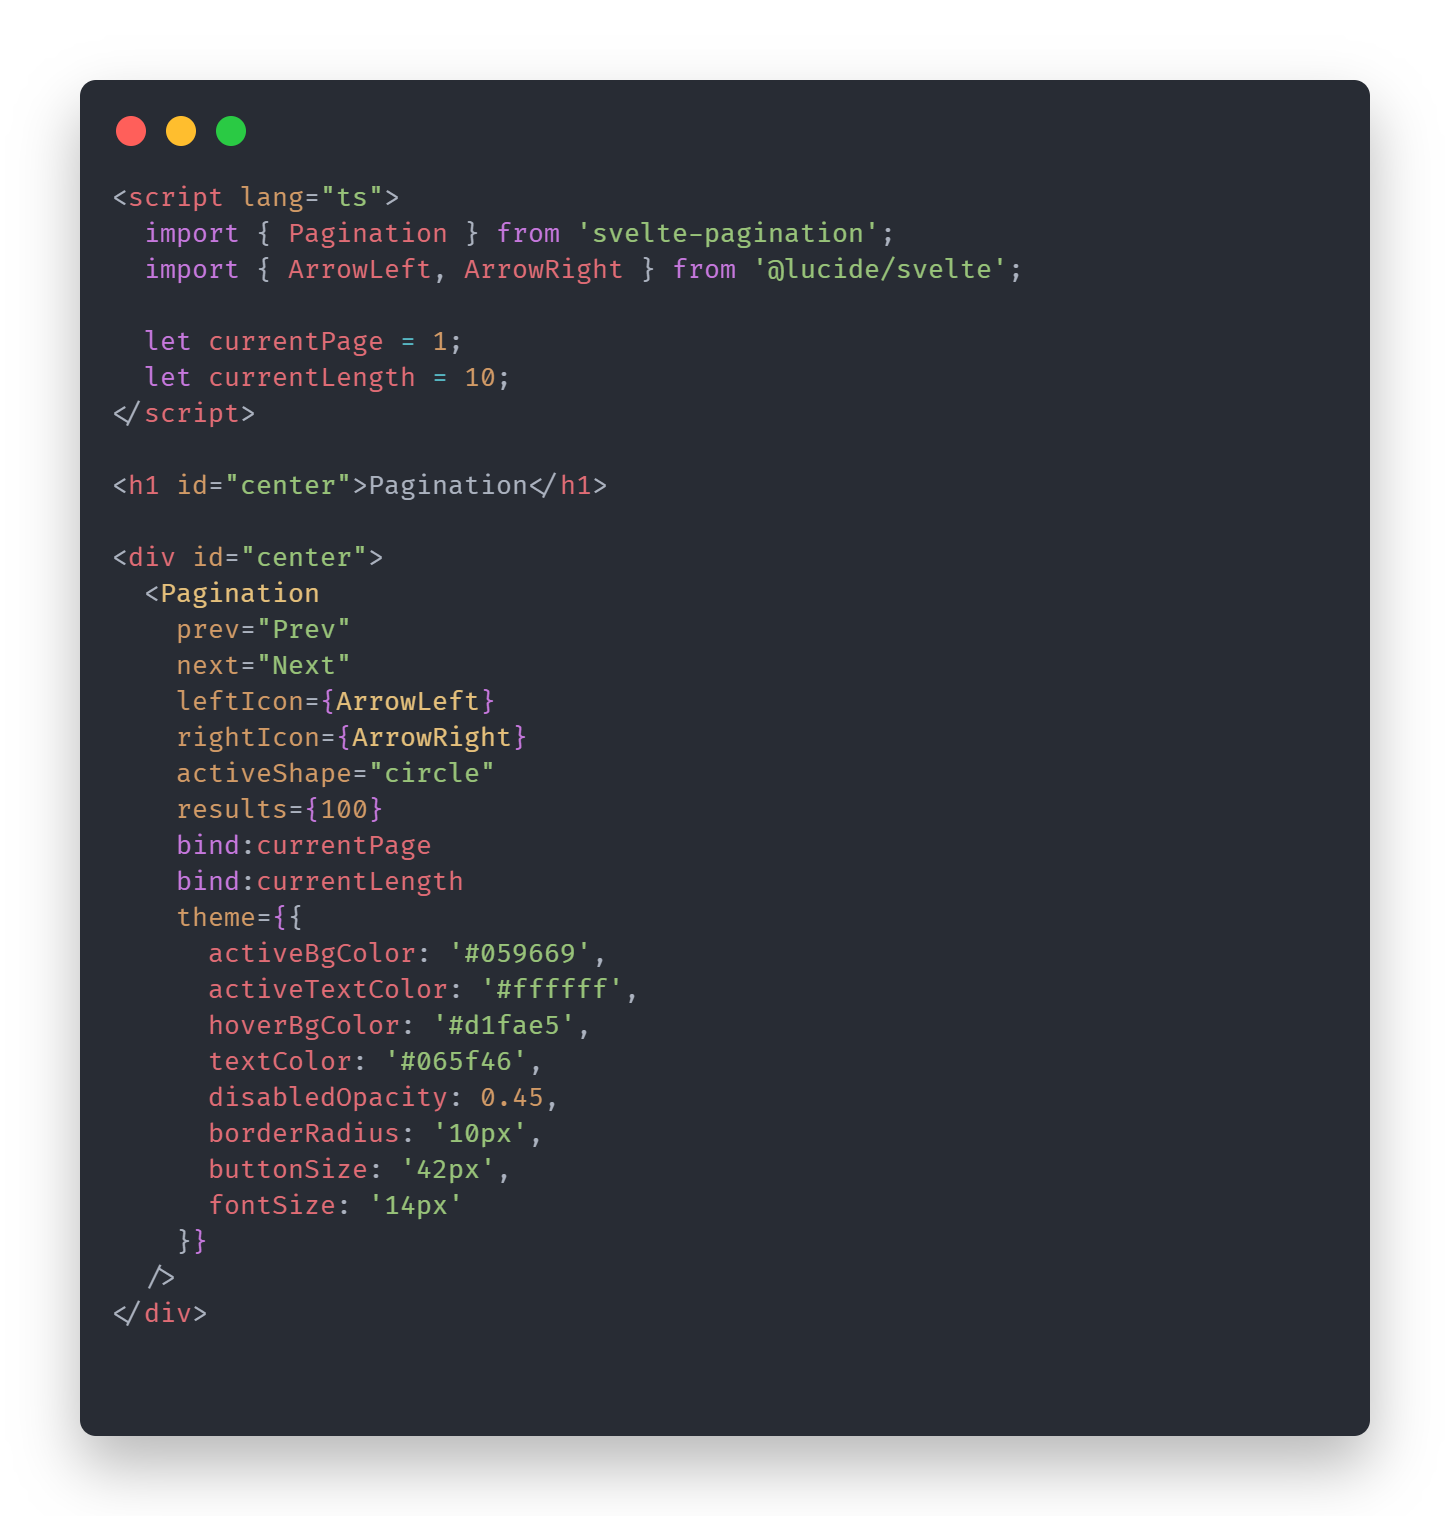
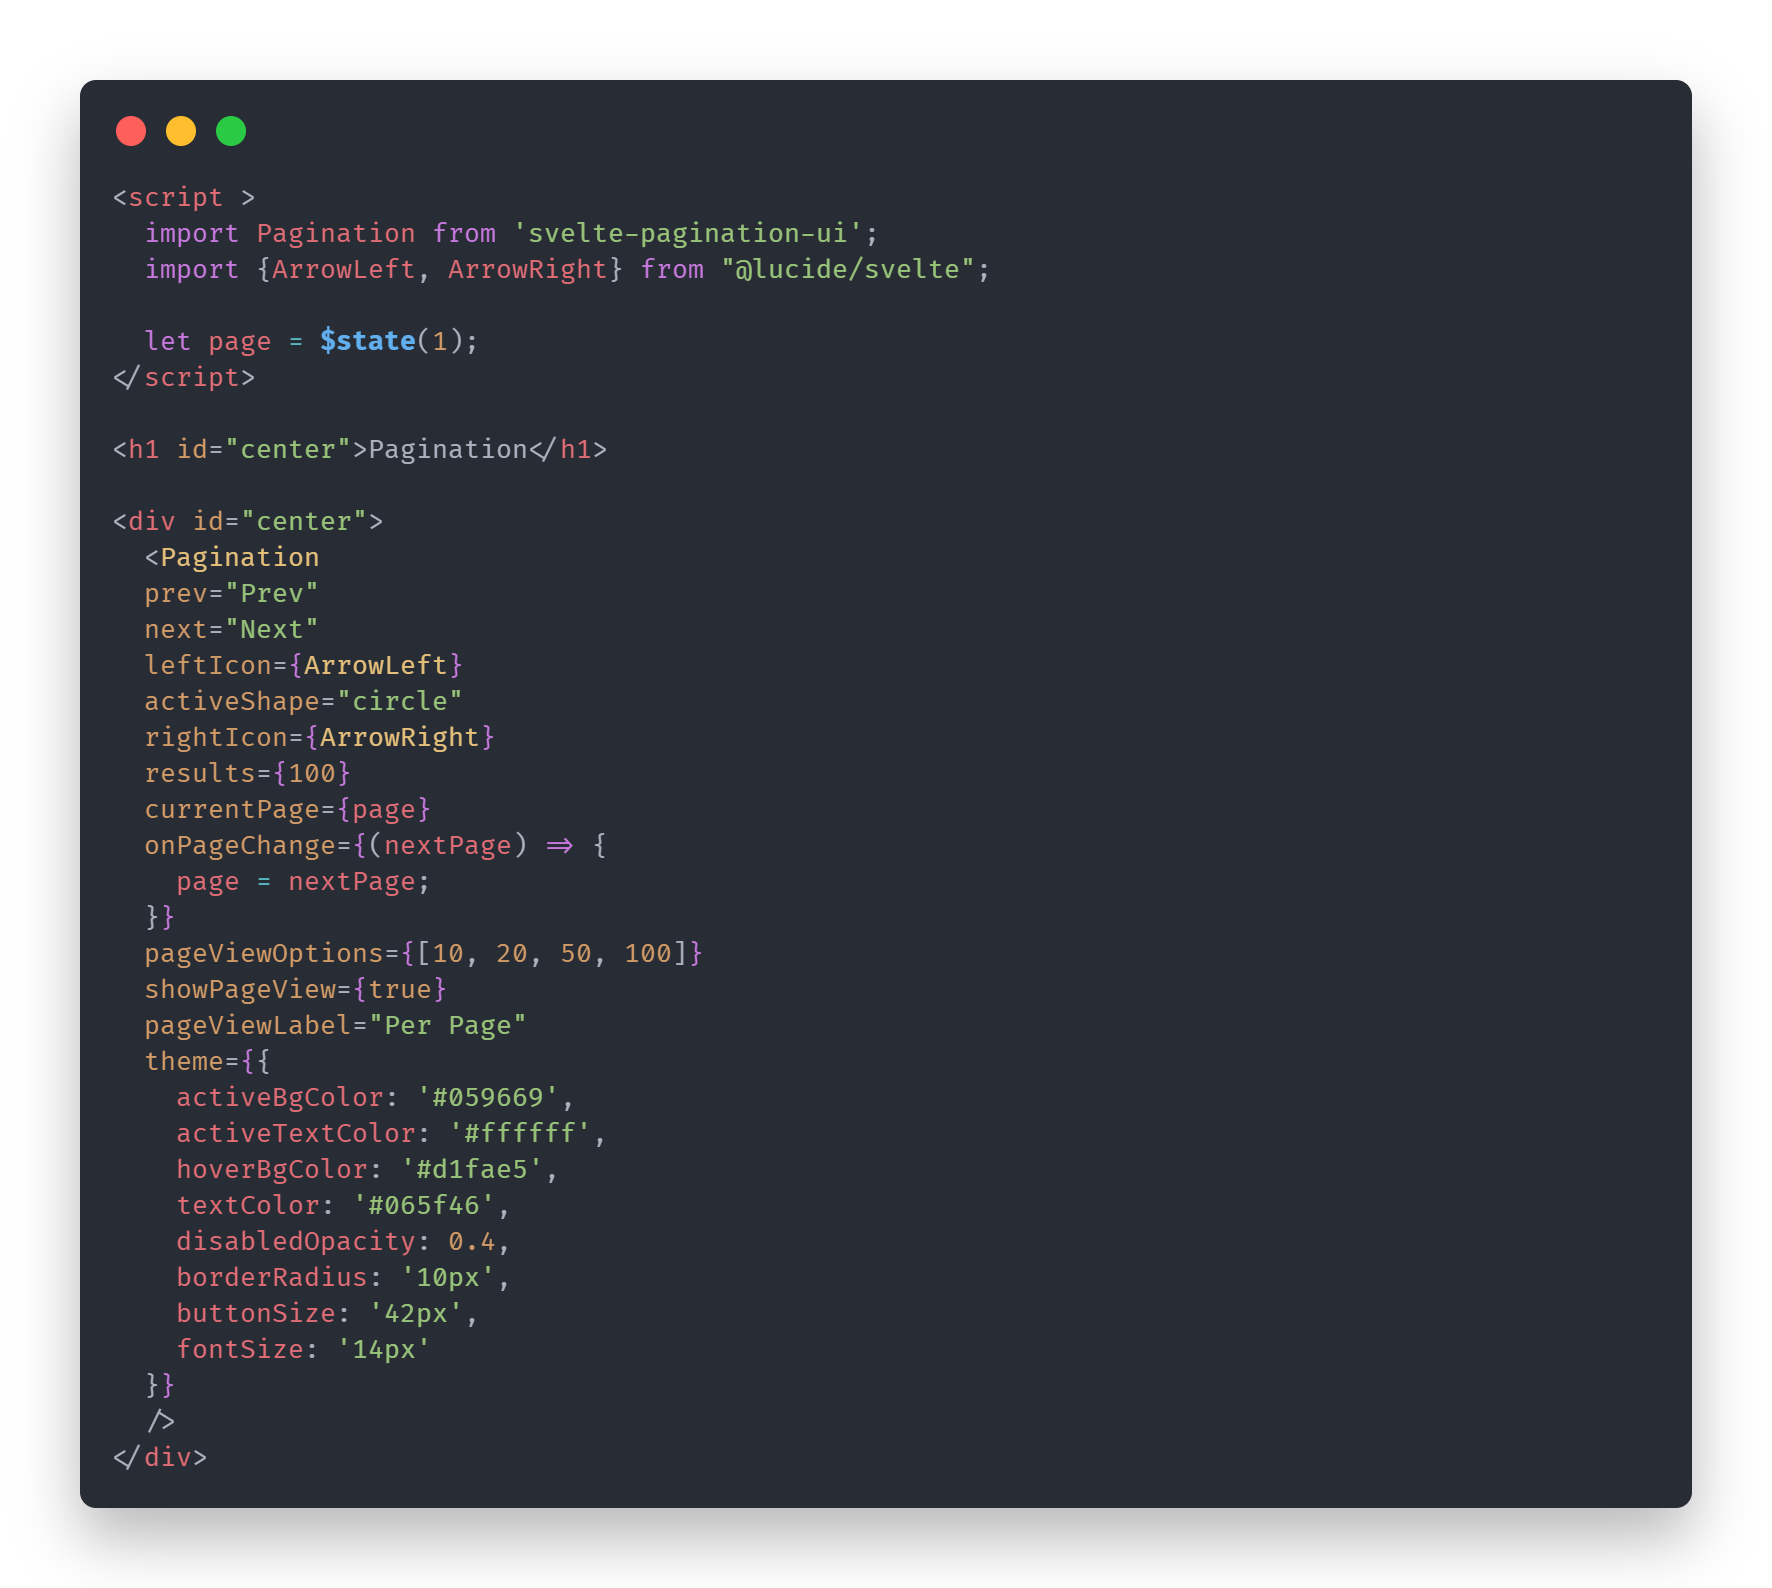
chore: rename package to svelte-pagination-ui and update documentation with new example assets

Changed region(s): [[0.031, 0.031, 0.6828, 0.9611], [0.931, 0.031, 0.9621, 0.9611]]

diff --git a/README.md b/README.md
@@ -6,14 +6,14 @@ A small Svelte pagination component for libraries, dashboards, tables, and data-
 ## Install
 
 ```bash
-npm install svelte-pagination
+npm i svelte-pagination-ui
 ```
 
 ## Import
 
 ```svelte
 <script lang="ts">
-	import Pagination from 'svelte-pagination';
+	import Pagination from 'svelte-pagination-ui';
 </script>
 ```
 
@@ -21,7 +21,7 @@ npm install svelte-pagination
 
 ```svelte
 <script lang="ts">
-	import Pagination from 'svelte-pagination';
+	import Pagination from 'svelte-pagination-ui';
 
 	let page = $state(1);
 </script>
@@ -68,7 +68,7 @@ You can customize the previous and next buttons with text labels or Svelte compo
 
 ```svelte
 <script lang="ts">
-	import Pagination from 'svelte-pagination';
+	import Pagination from 'svelte-pagination-ui';
 	import LeftIcon from './LeftIcon.svelte';
 	import RightIcon from './RightIcon.svelte';
 </script>
@@ -124,37 +124,30 @@ type PaginationTheme = {
 
 ## Visuals
 
-```
-  - Below is Examples that Help to integrate Pagination in your svelte/svelte-kit Code
-  in theme you can use HEX or COLOR CODE directly as per your convinent or your actual Application theme color you can pass
 
-```
 
 - ### Example - 1
-
-  ![Alt text](./static/assets/Pagination-default.png)
+   - Pagination Example without per page these is default theme and default style for pagination component 
+  ![Alt text](./static/assets/Pagination-without-perpage.png)
+  ![Alt text](./static/assets/defaul-without-perpage.JPG)
 
 - ### Example - 2
+
+  ![Alt text](./static/assets/Pagination-default.png)
+  ![Alt text](./static/assets/Pagination-perPage-result.png)
+
+- ### Example - 3
 
   ![Alt text](./static//assets/Pagination-Prem.JPG)
   ![Alt text](./static/assets/Pagination-Premium.JPG)
 
-- ### Example - 3
-
-  ![Alt text](./static/assets/Pagination-Purple1.png)
-  ![Alt text](./static/assets/Pagination-Purple.JPG)
-
 - ### Example - 4
 
-![Alt text](./static/assets/Pagination-perPage.png)
-![Alt text](./static/assets/Pagination-perPage-result.png)
+  ![Alt text](./static/assets/Pagination-purple.JPG)
+  ![Alt text](./static/assets/Pagination-purple-res.JPG)
 
 ## Storybook
 
 The package includes Storybook stories under `src/stories/Pagination.stories.svelte` so you can preview the default, animated, themed, icon-based, and loading skeleton variants.
-
-## Publishing
-
-The component is exported from `src/lib/index.ts`, so it is ready for packaging with `@sveltejs/package` and `npm publish`.
 
 </div>
